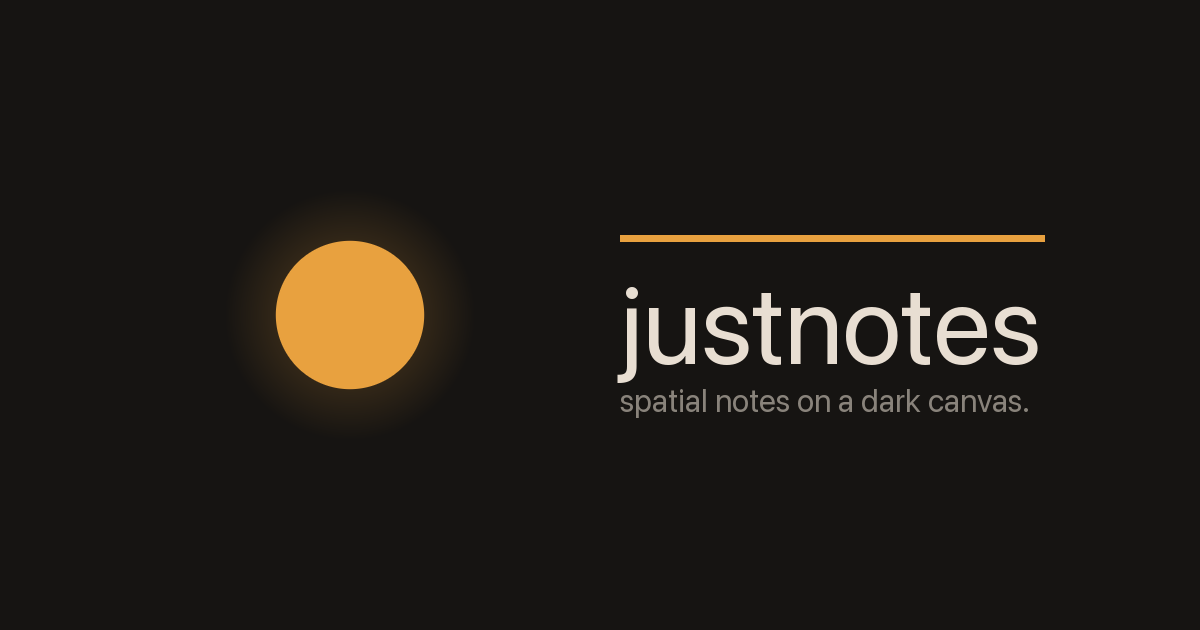
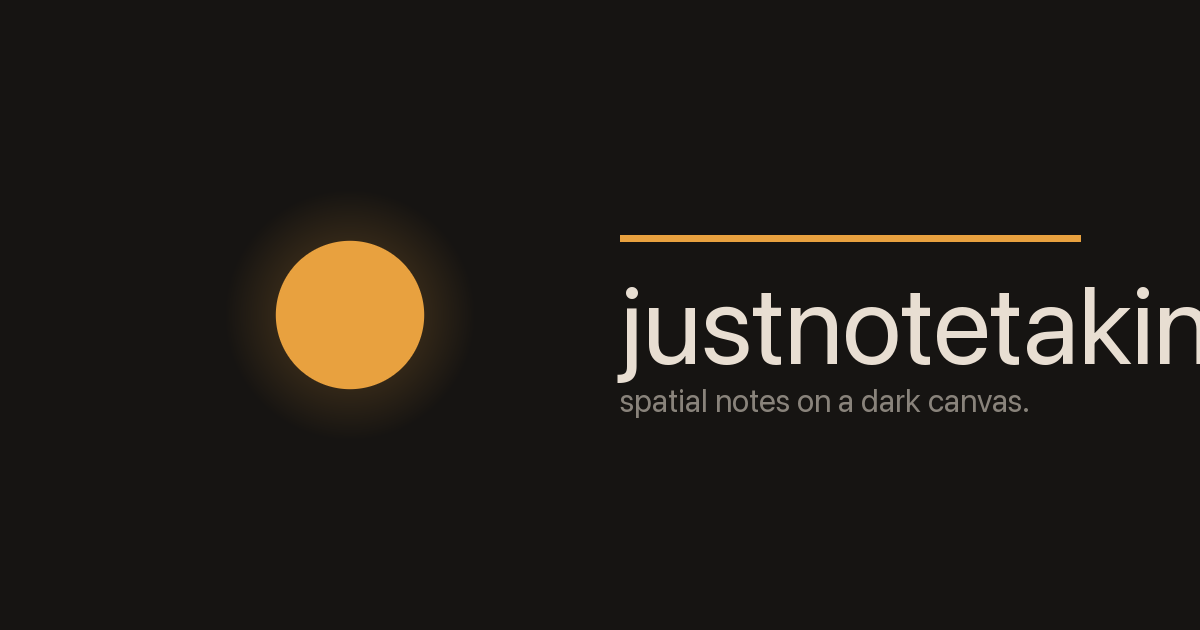
chore(rename): justnotes → justnotetaking everywhere user-visible
Single mechanical diff covering all in-repo strings that ship to or are
displayed to a user. Internal React identifiers (JustNotes component,
JustNotesLoader, the JustNotes/ folder of canvas code) stay — renaming
them is pure churn with zero user-visible payoff.

Surfaces touched
- pnpm: @user/{web,api,marketing,api-client} → @user/*;
  root justnotes-monorepo → justnotetaking-monorepo; every
  `pnpm --filter` script + workspace dep updated.
- Tauri: src-tauri/Cargo.toml package name; tauri.conf.json productName
  + window title (the only two PascalCase JustNotes → JustNoteTaking);
  identifier com.kreativekorna.justnotes → …justnotetaking;
  KEYCHAIN_SERVICE constant in lib.rs.
- Worker: wrangler.jsonc name justnotes-api → justnotetaking-api;
  env.production.name justnotes-api-prod → justnotetaking-api-prod;
  D1 binding names justnotes-{dev,prod} → justnotetaking-{dev,prod};
  custom-domain pattern api.justnotes.kreativekorna.com → api.
  justnotetaking.…; TRUSTED_ORIGINS list rewritten.
- Client: bootTheme({ keyPrefix: "justnotes" }) → "justnotetaking" in
  apps/web/main.tsx and apps/marketing layout (existing users' theme
  prefs reset — no real users yet).
- HTML/SVG: <title>justnotes</title> + og:* meta in apps/web/index.html
  and apps/marketing/index.astro; wordmark text in
  JustNotes chrome and brand/wordmark.svg; aria-label on
  brand/canvas-hero.svg.
- Brand: brand/build.py OG text + comments; raster outputs regenerated
[…]

Changed region(s): [[0.8017, 0.4524, 1.0, 0.6032], [0.8633, 0.3619, 0.8942, 0.3921]]

diff --git a/apps/web/index.html b/apps/web/index.html
@@ -3,7 +3,7 @@
   <head>
     <meta charset="UTF-8" />
     <meta name="viewport" content="width=device-width, initial-scale=1, maximum-scale=1" />
-    <title>justnotes</title>
+    <title>justnotetaking</title>
     <meta name="description" content="Spatial notes on a dark canvas." />
 
     <!-- Modern browsers prefer the SVG; .ico is the Safari + legacy
@@ -15,11 +15,11 @@
 
     <!-- Open Graph + Twitter card -->
     <meta property="og:type" content="website" />
-    <meta property="og:title" content="justnotes" />
+    <meta property="og:title" content="justnotetaking" />
     <meta property="og:description" content="Spatial notes on a dark canvas." />
     <meta property="og:image" content="/og.png" />
     <meta name="twitter:card" content="summary_large_image" />
-    <meta name="twitter:title" content="justnotes" />
+    <meta name="twitter:title" content="justnotetaking" />
     <meta name="twitter:description" content="Spatial notes on a dark canvas." />
     <meta name="twitter:image" content="/og.png" />
   </head>

diff --git a/apps/api/src/db/schema.ts b/apps/api/src/db/schema.ts
@@ -4,7 +4,7 @@ import { sqliteTable, text, integer, real, index } from "drizzle-orm/sqlite-core
 // These match the shape Better Auth's CLI would generate for a Drizzle
 // adapter with provider: "sqlite" + plugins: [anonymous(), bearer()].
 // If a Better Auth upgrade changes the expected schema, re-generate via:
-//   pnpm --filter @justnotes/api auth:generate
+//   pnpm --filter @justnotetaking/api auth:generate
 
 export const user = sqliteTable("user", {
   id: text("id").primaryKey(),
@@ -58,7 +58,7 @@ export const verification = sqliteTable("verification", {
   updatedAt: integer("updatedAt", { mode: "timestamp" }),
 });
 
-// ── justnotes domain tables ─────────────────────────────────────────────
+// ── justnotetaking domain tables ─────────────────────────────────────────────
 
 // One row per note. user_id partitions the table for multi-tenant safety.
 // `t` is the note's "moment" (recency/scrub axis). `updated_at` is the

diff --git a/apps/web/src/components/JustNotes/JustNotes.tsx b/apps/web/src/components/JustNotes/JustNotes.tsx
@@ -857,7 +857,7 @@ function Chrome({
     <>
       <div className="chrome chrome-tl">
         <span className="dot" />
-        <span className="wordmark">justnotes</span>
+        <span className="wordmark">justnotetaking</span>
       </div>
       {isAnonymous ? (
         <div className="chrome chrome-tr">

diff --git a/apps/web/src/lib/api-client.ts b/apps/web/src/lib/api-client.ts
@@ -1,4 +1,4 @@
-import { createClient } from "@justnotes/api-client";
+import { createClient } from "@justnotetaking/api-client";
 import { API_BASE_URL, isTauri } from "./runtime";
 
 // In Tauri we pull the bearer token from the OS keychain on every

diff --git a/apps/web/src/lib/runtime.ts b/apps/web/src/lib/runtime.ts
@@ -11,5 +11,5 @@ export const isTauri =
 export const API_BASE_URL =
   (import.meta.env.VITE_API_BASE_URL as string | undefined) ??
   (import.meta.env.PROD
-    ? "https://api.justnotes.kreativekorna.com"
+    ? "https://api.justnotetaking.kreativekorna.com"
     : "http://localhost:8787");

diff --git a/apps/web/src/lib/tauri-oauth.ts b/apps/web/src/lib/tauri-oauth.ts
@@ -1,7 +1,7 @@
 import { isTauri, API_BASE_URL } from "./runtime";
 
 // Tauri OAuth via the localhost-listener pattern (RFC 8252 for native
-// apps). We don't use a custom URL scheme like justnotes:// because
+// apps). We don't use a custom URL scheme like justnotetaking:// because
 // macOS only registers schemes for bundled, installed .app's — dev
 // iteration with `tauri:dev` would otherwise need a fresh bundle +
 // drag-to-Applications cycle every change. Localhost listener works

diff --git a/apps/web/src/main.tsx b/apps/web/src/main.tsx
@@ -8,7 +8,7 @@ import "./styles/global.css";
 // paint. Stamps window.__JUSTUI__ so useTheme() in React components
 // knows which localStorage keys to read/write. Default is espresso/dark
 // (configured inside @codellyson/justui).
-bootTheme({ keyPrefix: "justnotes" });
+bootTheme({ keyPrefix: "justnotetaking" });
 
 createRoot(document.getElementById("root")!).render(
   <StrictMode>

diff --git a/packages/api-client/src/index.ts b/packages/api-client/src/index.ts
@@ -1,5 +1,5 @@
 import { hc } from "hono/client";
-import type { AppType } from "@justnotes/api";
+import type { AppType } from "@justnotetaking/api";
 
 export type CreateClientOpts = {
   baseUrl: string;

diff --git a/brand/build.py b/brand/build.py
@@ -267,9 +267,9 @@ def render_og():
     word = ImageFont.truetype(font_path, 110)
     tagline = ImageFont.truetype(font_path, 32)
 
-    # Accent underline above the wordmark — same width as "justnotes"
+    # Accent underline above the wordmark — same width as "justnotetaking"
     # so it reads as part of the same composition.
-    word_bbox = draw.textbbox((text_x, 0), "justnotes", font=word)
+    word_bbox = draw.textbbox((text_x, 0), "justnotetaking", font=word)
     word_w = word_bbox[2] - word_bbox[0]
     underline_y = 235
     draw.rectangle(
@@ -277,7 +277,7 @@ def render_og():
         fill=(*ACCENT, 255),
     )
 
-    draw.text((text_x, underline_y + 22), "justnotes", font=word, fill=(*TEXT, 255))
+    draw.text((text_x, underline_y + 22), "justnotetaking", font=word, fill=(*TEXT, 255))
 
     # Muted tagline
     tagline_color = (*blend(TEXT, BG, 0.45), 255)

diff --git a/src-tauri/src/lib.rs b/src-tauri/src/lib.rs
@@ -12,7 +12,7 @@
 //     emits an "oauth://callback" event with the full URL; the JS side
 //     extracts the token, stores it in keychain, and reloads.
 //
-// We use a localhost listener instead of a justnotes:// custom scheme
+// We use a localhost listener instead of a justnotetaking:// custom scheme
 // because macOS only registers custom schemes for bundled .app
 // installs — dev iteration with `tauri:dev` would otherwise need a
 // full bundle + drag-to-Applications cycle every time we change Rust.
@@ -21,7 +21,7 @@ use tauri::{AppHandle, Emitter};
 #[cfg(any(target_os = "windows", target_os = "linux"))]
 use tauri::Manager;
 
-const KEYCHAIN_SERVICE: &str = "com.kreativekorna.justnotes";
+const KEYCHAIN_SERVICE: &str = "com.kreativekorna.justnotetaking";
 const KEYCHAIN_ACCOUNT: &str = "bearer";
 const OAUTH_CALLBACK_EVENT: &str = "oauth://callback";
 

diff --git a/src-tauri/src/main.rs b/src-tauri/src/main.rs
@@ -2,5 +2,5 @@
 #![cfg_attr(not(debug_assertions), windows_subsystem = "windows")]
 
 fn main() {
-  justnotes_lib::run();
+  justnotetaking_lib::run();
 }

diff --git a/docs/deploy.md b/docs/deploy.md
@@ -9,14 +9,14 @@ Tauri release (code-signing, notarization, auto-update feed) is a separate sub-p
 ## Prerequisites
 
 - Cloudflare account with Workers + D1 + Pages enabled
-- `wrangler` available (already in `apps/api/devDependencies`; use `pnpm --filter @justnotes/api exec wrangler ...` from the repo root)
-- A custom domain on Cloudflare DNS (the runbook assumes `justnotes.kreativekorna.com` for marketing/web and `api.justnotes.kreativekorna.com` for the Worker — search/replace if yours differs)
+- `wrangler` available (already in `apps/api/devDependencies`; use `pnpm --filter @justnotetaking/api exec wrangler ...` from the repo root)
+- A custom domain on Cloudflare DNS (the runbook assumes `justnotetaking.kreativekorna.com` for marketing/web and `api.justnotetaking.kreativekorna.com` for the Worker — search/replace if yours differs)
 - Optional: Google Cloud Console OAuth client (only needed if you want the Google sign-in button)
 
 ```sh
-cd /path/to/justnotes
+cd /path/to/justnotetaking
 pnpm install   # if you haven't already
-pnpm --filter @justnotes/api exec wrangler login
+pnpm --filter @justnotetaking/api exec wrangler login
 ```
 
 ---
@@ -27,8 +27,8 @@ Each env (dev/prod) gets its own D1 instance.
 
 ```sh
 # One-time per env. Copy the database_id from the output into wrangler.jsonc.
-pnpm --filter @justnotes/api exec wrangler d1 create justnotes-dev
-pnpm --filter @justnotes/api exec wrangler d1 create justnotes-prod
+pnpm --filter @justnotetaking/api exec wrangler d1 create justnotetaking-dev
+pnpm --filter @justnotetaking/api exec wrangler d1 create justnotetaking-prod
 ```
 
 Open `apps/api/wrangler.jsonc` and replace both `REPLACE_ME_RUN_wrangler_d1_create` placeholders with the real IDs:
@@ -39,11 +39,11 @@ Apply migrations to both:
 
 ```sh
 # Dev (uses miniflare in-memory by default; --remote hits the real D1)
-pnpm --filter @justnotes/api db:migrate:local       # local SQLite
-pnpm --filter @justnotes/api exec wrangler d1 migrations apply justnotes-dev --remote
+pnpm --filter @justnotetaking/api db:migrate:local       # local SQLite
+pnpm --filter @justnotetaking/api exec wrangler d1 migrations apply justnotetaking-dev --remote
 
 # Prod
-pnpm --filter @justnotes/api db:migrate:remote
+pnpm --filter @justnotetaking/api db:migrate:remote
 ```
 
 ---
@@ -54,26 +54,26 @@ Required for any env that actually serves traffic:
 
 ```sh
 # BETTER_AUTH_SECRET — random 32-byte hex. Different per env.
-openssl rand -hex 32 | pnpm --filter @justnotes/api exec wrangler secret put BETTER_AUTH_SECRET --env production
+openssl rand -hex 32 | pnpm --filter @justnotetaking/api exec wrangler secret put BETTER_AUTH_SECRET --env production
 ```
 
 Optional — Google OAuth. Skip if you only want email/password sign-in.
 
 ```sh
 # From Google Cloud Console → APIs & Services → Credentials → OAuth client ID
-pnpm --filter @justnotes/api exec wrangler secret put GOOGLE_CLIENT_ID --env production
-pnpm --filter @justnotes/api exec wrangler secret put GOOGLE_CLIENT_SECRET --env production
+pnpm --filter @justnotetaking/api exec wrangler secret put GOOGLE_CLIENT_ID --env production
+pnpm --filter @justnotetaking/api exec wrangler secret put GOOGLE_CLIENT_SECRET --env production
 ```
 
 The Google OAuth callback URL to register in the Cloud Console is:
-`https://api.justnotes.kreativekorna.com/api/auth/callback/google`
+`https://api.justnotetaking.kreativekorna.com/api/auth/callback/google`
 
 ---
 
 ## 3 · Deploy the Worker
 
 ```sh
-pnpm --filter @justnotes/api exec wrangler deploy --env production
+pnpm --filter @justnotetaking/api exec wrangler deploy --env production
 ```
 
 The first deploy will print the `*.workers.dev` URL the Worker is now reachable at. You can hit it directly to smoke-test before attaching the custom domain.
@@ -84,27 +84,27 @@ Either:
 - Leave `routes` in `wrangler.jsonc#env.production` and rerun `wrangler deploy --env production` (wrangler attaches the route on your behalf), **or**
 - Skip the `routes` block and attach via the Cloudflare dashboard → Workers → your worker → Triggers → Add Custom Domain.
 
-DNS: a proxied CNAME for `api.justnotes.kreativekorna.com` to the workers.dev hostname. (The dashboard's "Add Custom Domain" creates this automatically.)
+DNS: a proxied CNAME for `api.justnotetaking.kreativekorna.com` to the workers.dev hostname. (The dashboard's "Add Custom Domain" creates this automatically.)
 
 ### Smoke test
 
 ```sh
 # Health
-curl https://api.justnotes.kreativekorna.com/api/health
+curl https://api.justnotetaking.kreativekorna.com/api/health
 # → {"ok":true,"time":...}
 
 # Anonymous sign-in (cookie ends up in the jar)
 JAR=/tmp/jn.cookies && rm -f "$JAR"
 curl -s -c "$JAR" -X POST \
-  https://api.justnotes.kreativekorna.com/api/auth/sign-in/anonymous \
+  https://api.justnotetaking.kreativekorna.com/api/auth/sign-in/anonymous \
   -H "Content-Type: application/json" \
-  -H "Origin: https://justnotes.kreativekorna.com" \
+  -H "Origin: https://justnotetaking.kreativekorna.com" \
   -d '{}' | jq .user.id
 
 # Whoami
 curl -s -b "$JAR" \
-  -H "Origin: https://justnotes.kreativekorna.com" \
-  https://api.justnotes.kreativekorna.com/api/me | jq .
+  -H "Origin: https://justnotetaking.kreativekorna.com" \
+  https://api.justnotetaking.kreativekorna.com/api/me | jq .
 ```
 
 If `INVALID_ORIGIN` comes back, double-check `TRUSTED_ORIGINS` in `wrangler.jsonc#env.production.vars` includes the exact origin you're sending from.
@@ -117,21 +117,21 @@ Static build, no SSR — Pages serves the `dist/` directly.
 
 ```sh
 # Build with the prod URLs baked into the CTAs
-PUBLIC_WEB_URL=https://justnotes.kreativekorna.com \
-PUBLIC_DESKTOP_URL=https://github.com/your-org/justnotes/releases/latest \
-pnpm --filter @justnotes/marketing build
+PUBLIC_WEB_URL=https://justnotetaking.kreativekorna.com \
+PUBLIC_DESKTOP_URL=https://github.com/your-org/justnotetaking/releases/latest \
+pnpm --filter @justnotetaking/marketing build
 
 # Deploy (first run prompts for project name + branch settings)
-pnpm --filter @justnotes/marketing exec wrangler pages deploy dist --project-name justnotes-marketing
+pnpm --filter @justnotetaking/marketing exec wrangler pages deploy dist --project-name justnotetaking-marketing
 ```
 
 For continuous deploys, hook Pages up to the GitHub repo in the dashboard with this build command:
-- Build command: `pnpm install --frozen-lockfile && pnpm --filter @justnotes/marketing build`
+- Build command: `pnpm install --frozen-lockfile && pnpm --filter @justnotetaking/marketing build`
 - Build output dir: `apps/marketing/dist`
 - Root dir: leave blank (Pages will run at repo root)
 - Env vars: `PUBLIC_WEB_URL`, `PUBLIC_DESKTOP_URL`
 
-DNS: a proxied CNAME for `justnotes.kreativekorna.com` to the pages.dev hostname.
+DNS: a proxied CNAME for `justnotetaking.kreativekorna.com` to the pages.dev hostname.
 
 ---
 
@@ -141,15 +141,15 @@ The web app is a static Vite bundle. Same Pages flow as marketing, different pro
 
 ```sh
 # Build with the prod API URL
-VITE_API_BASE_URL=https://api.justnotes.kreativekorna.com \
-pnpm --filter @justnotes/web build
+VITE_API_BASE_URL=https://api.justnotetaking.kreativekorna.com \
+pnpm --filter @justnotetaking/web build
 
-pnpm --filter @justnotes/web exec wrangler pages deploy dist --project-name justnotes-web
+pnpm --filter @justnotetaking/web exec wrangler pages deploy dist --project-name justnotetaking-web
 ```
 
 `VITE_API_BASE_URL` is honored by `apps/web/src/lib/runtime.ts` — set it to override the prod default for staging/preview builds.
 
-Web app domain: `app.justnotes.kreativekorna.com` (or the bare apex — your call). Update `TRUSTED_ORIGINS` in the Worker's prod env to match before deploying the Worker, or sign-in will 403.
+Web app domain: `app.justnotetaking.kreativekorna.com` (or the bare apex — your call). Update `TRUSTED_ORIGINS` in the Worker's prod env to match before deploying the Worker, or sign-in will 403.
 
 ---
 
@@ -160,8 +160,8 @@ The shell compiles, `tauri:dev` opens a window, the updater plugin and `tauri-pl
 ### 6a · Generate a signing key (one-time)
 
 ```sh
-# Creates ~/.tauri/justnotes.key (private) and prints the public key.
-pnpm --filter root exec tauri signer generate -w ~/.tauri/justnotes.key
+# Creates ~/.tauri/justnotetaking.key (private) and prints the public key.
+pnpm --filter root exec tauri signer generate -w ~/.tauri/justnotetaking.key
 ```
 
 Open `src-tauri/tauri.conf.json` and paste the printed pubkey into `plugins.updater.pubkey` (replacing `REPLACE_ME_RUN_tauri_signer_generate`). Also update the `endpoints[0]` URL to point at your repo's releases — replace `REPLACE_ME_ORG` with your GitHub org.
@@ -200,7 +200,7 @@ Per platform: macOS produces `.dmg` + `.app.tar.gz`, Windows `.msi` + `.exe`, Li
 Upload the build artifacts + `latest.json` to a GitHub Release at the version tag matching `tauri.conf.json#version`. The updater endpoint in step 6a is shaped for GitHub Releases:
 
 ```
-https://github.com/<org>/justnotes/releases/latest/download/latest.json
+https://github.com/<org>/justnotetaking/releases/latest/download/latest.json
 ```
 
 Subsequent launches of installed builds will hit this URL on startup (when you call `check()` from `@tauri-apps/plugin-updater` — wire that in `apps/web` when you're ready to prompt users to update; defer is fine until you've cut a 2nd release).
@@ -210,9 +210,9 @@ Subsequent launches of installed builds will hit this URL on startup (when you c
 The shell uses cookie sessions today, same as the browser. Email/password sign-in should work in Tauri without any extra code because Tauri's webview supports cookies for the API origin. Google sign-in is the gap: Google won't redirect to `tauri://` URLs, so we need the system-browser handoff + deep-link callback pattern.
 
 When you tackle this:
-1. Add `tauri-plugin-deep-link` + a `justnotes` URL scheme registration
+1. Add `tauri-plugin-deep-link` + a `justnotetaking` URL scheme registration
 2. Add `tauri-plugin-shell` (or `tauri-plugin-opener`) so the React app can open the OAuth start URL in the system browser
-3. Server-side: a `/auth/start?desktop=1` route that runs the OAuth dance, captures the token, then 302s to `justnotes://auth/callback?token=…`
+3. Server-side: a `/auth/start?desktop=1` route that runs the OAuth dance, captures the token, then 302s to `justnotetaking://auth/callback?token=…`
 4. Tauri: on receiving the deep link, store the token in OS keychain via the existing `store_bearer_token` command, then re-create the session
 
 See `docs/migration.md#phase-3` for the original sketch.
@@ -224,7 +224,7 @@ See `docs/migration.md#phase-3` for the original sketch.
 D1 has no built-in rollback, so keep migrations forward-only and additive when possible. For Workers code:
 
 ```sh
-pnpm --filter @justnotes/api exec wrangler rollback --env production
+pnpm --filter @justnotetaking/api exec wrangler rollback --env production
 ```
 
 That reverts to the previous deployment; combine with a follow-up migration if the rollback puts code and schema out of sync.